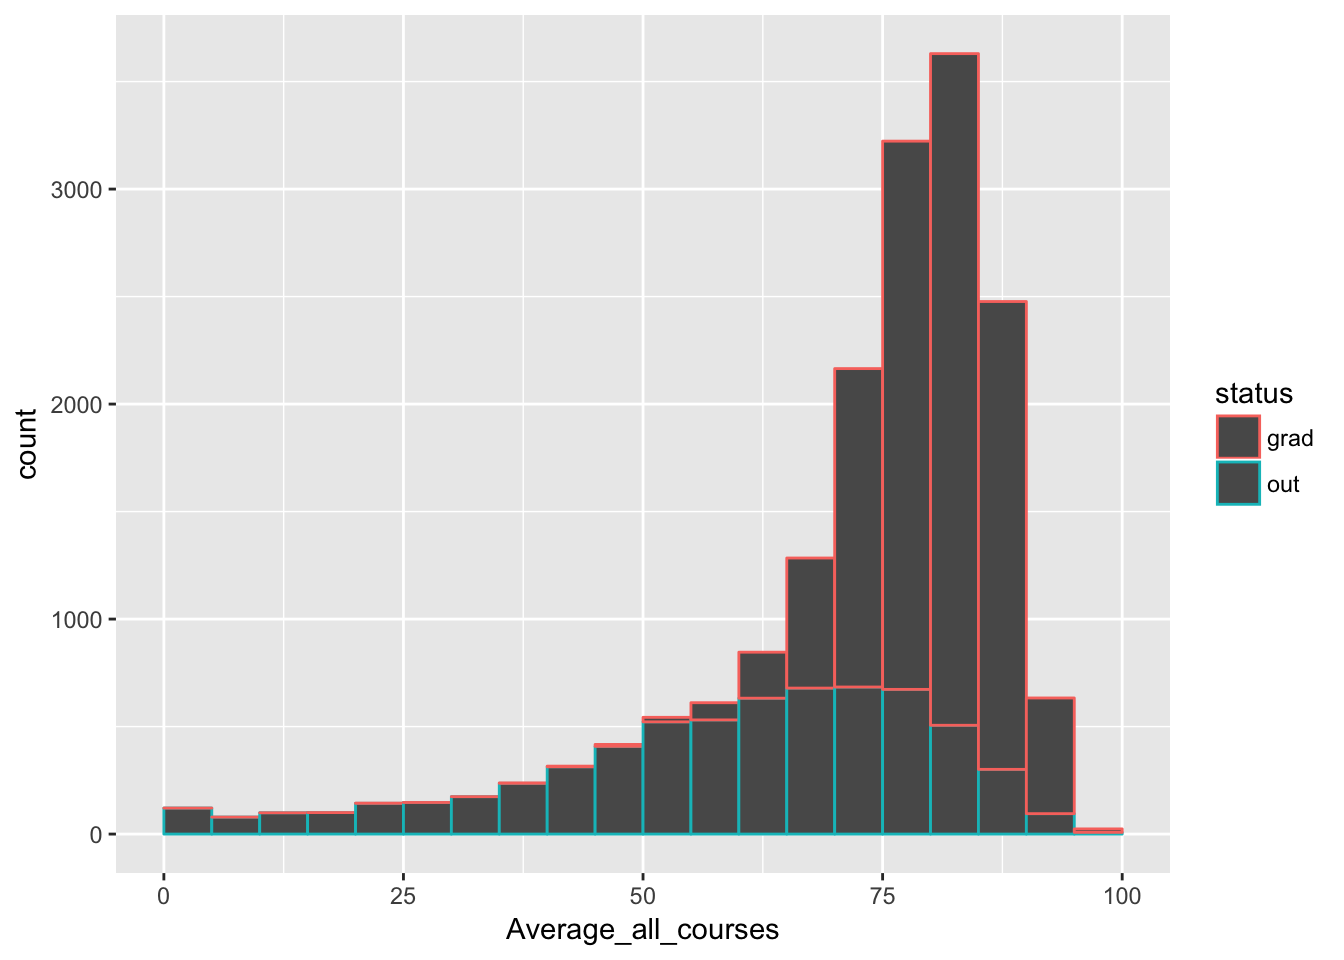
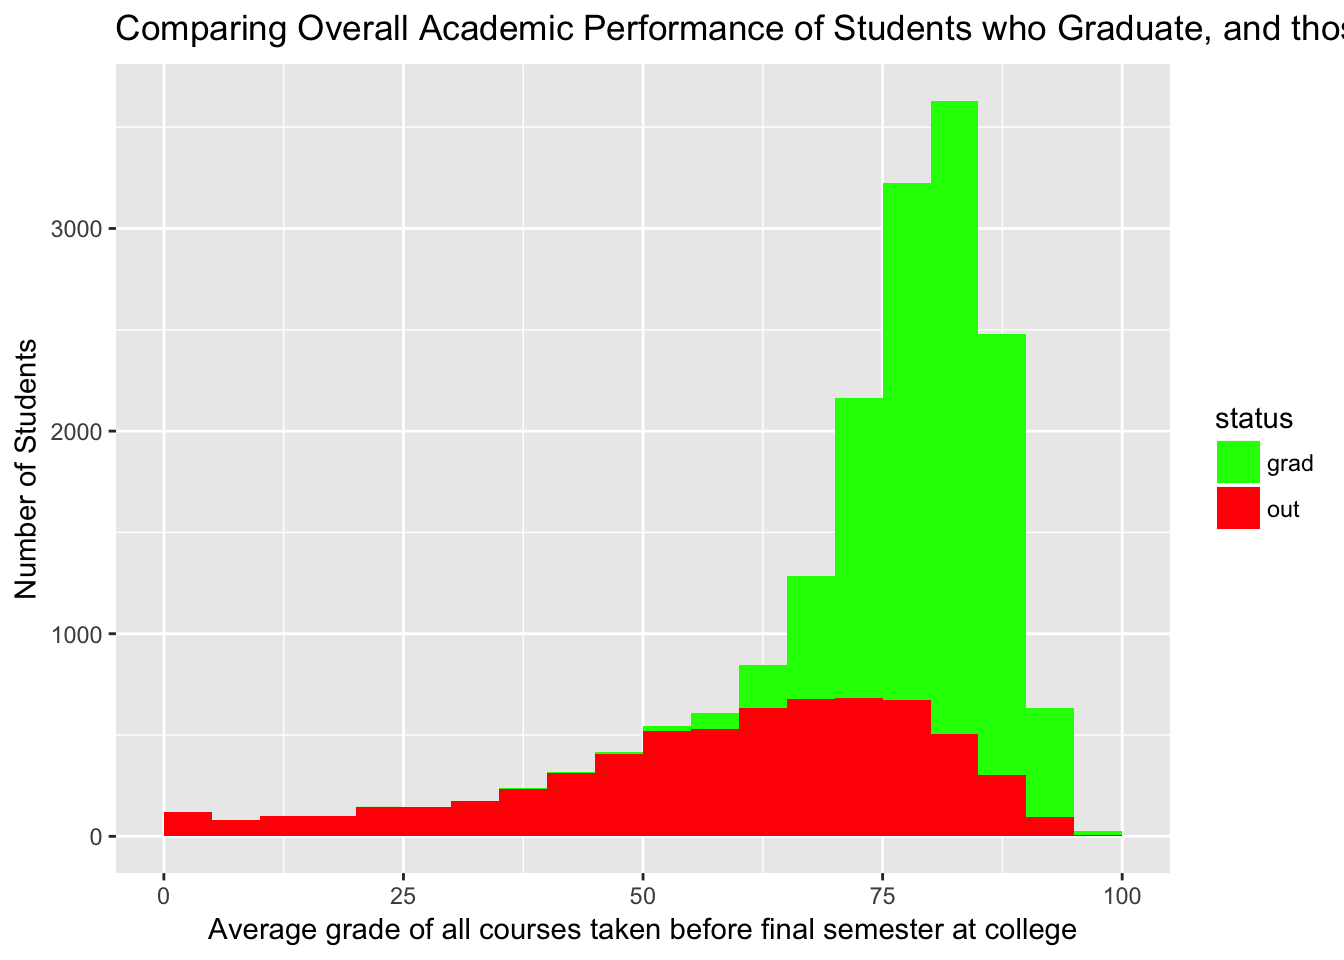
add to jons work on descriptive stats failed courses

diff --git a/docs/descriptive-statistics.html b/docs/descriptive-statistics.html
@@ -29,7 +29,7 @@
 <meta name="author" content="Nathaniel Lasry">
 
 
-<meta name="date" content="2017-06-01">
+<meta name="date" content="2017-06-02">
 
   <meta name="viewport" content="width=device-width, initial-scale=1">
   <meta name="apple-mobile-web-app-capable" content="yes">
@@ -72,34 +72,20 @@
 <li class="divider"></li>
 <li class="chapter" data-level="1" data-path="index.html"><a href="index.html"><i class="fa fa-check"></i><b>1</b> Preface</a></li>
 <li class="chapter" data-level="2" data-path="intro.html"><a href="intro.html"><i class="fa fa-check"></i><b>2</b> Introduction</a></li>
-<li class="chapter" data-level="3" data-path="literature.html"><a href="literature.html"><i class="fa fa-check"></i><b>3</b> Literature</a><ul>
-<li class="chapter" data-level="3.1" data-path="literature.html"><a href="literature.html#modeling-success-and-attrition-in-cegep"><i class="fa fa-check"></i><b>3.1</b> Modeling success and attrition in CEGEP</a></li>
-<li class="chapter" data-level="3.2" data-path="literature.html"><a href="literature.html#predictive-modelling-in-learning-analytics-and-educational-data-mining"><i class="fa fa-check"></i><b>3.2</b> Predictive Modelling in Learning Analytics and Educational Data Mining</a></li>
-</ul></li>
+<li class="chapter" data-level="3" data-path="literature.html"><a href="literature.html"><i class="fa fa-check"></i><b>3</b> Literature</a></li>
 <li class="chapter" data-level="4" data-path="descriptive-statistics.html"><a href="descriptive-statistics.html"><i class="fa fa-check"></i><b>4</b> Descriptive Statistics</a><ul>
 <li class="chapter" data-level="4.1" data-path="descriptive-statistics.html"><a href="descriptive-statistics.html#demographics-across-the-colleges-and-major-programs"><i class="fa fa-check"></i><b>4.1</b> Demographics across the colleges and major programs</a></li>
-<li class="chapter" data-level="4.2" data-path="descriptive-statistics.html"><a href="descriptive-statistics.html#fraction-of-students-who-change-colleges"><i class="fa fa-check"></i><b>4.2</b> Fraction of students who change colleges</a></li>
+<li class="chapter" data-level="4.2" data-path="descriptive-statistics.html"><a href="descriptive-statistics.html#academic-performance-in-semesters-leading-to-drop-out"><i class="fa fa-check"></i><b>4.2</b> Academic Performance in Semesters leading to drop-out</a><ul>
+<li class="chapter" data-level="4.2.1" data-path="descriptive-statistics.html"><a href="descriptive-statistics.html#grades"><i class="fa fa-check"></i><b>4.2.1</b> Grades</a></li>
+<li class="chapter" data-level="4.2.2" data-path="descriptive-statistics.html"><a href="descriptive-statistics.html#passed-vs.failed-courses"><i class="fa fa-check"></i><b>4.2.2</b> Passed vs. Failed Courses</a></li>
+</ul></li>
 </ul></li>
 <li class="chapter" data-level="5" data-path="methods-centered-on-determining-predictive-factors.html"><a href="methods-centered-on-determining-predictive-factors.html"><i class="fa fa-check"></i><b>5</b> Methods Centered on Determining Predictive Factors</a></li>
-<li class="chapter" data-level="6" data-path="methods-centered-on-predicting-at-risk-students.html"><a href="methods-centered-on-predicting-at-risk-students.html"><i class="fa fa-check"></i><b>6</b> Methods centered on predicting at-risk students</a><ul>
-<li class="chapter" data-level="6.1" data-path="methods-centered-on-predicting-at-risk-students.html"><a href="methods-centered-on-predicting-at-risk-students.html#decision-trees-and-random-forests"><i class="fa fa-check"></i><b>6.1</b> Decision Trees and Random Forests</a></li>
-<li class="chapter" data-level="6.2" data-path="methods-centered-on-predicting-at-risk-students.html"><a href="methods-centered-on-predicting-at-risk-students.html#neural-networks"><i class="fa fa-check"></i><b>6.2</b> Neural Networks</a></li>
-</ul></li>
+<li class="chapter" data-level="6" data-path="methods-centered-on-predicting-at-risk-students.html"><a href="methods-centered-on-predicting-at-risk-students.html"><i class="fa fa-check"></i><b>6</b> Methods centered on predicting at-risk students</a></li>
 <li class="chapter" data-level="7" data-path="comparisons.html"><a href="comparisons.html"><i class="fa fa-check"></i><b>7</b> Comparisons</a></li>
-<li class="chapter" data-level="8" data-path="continuing-education-at-dawson.html"><a href="continuing-education-at-dawson.html"><i class="fa fa-check"></i><b>8</b> Continuing Education at Dawson</a><ul>
-<li class="chapter" data-level="8.1" data-path="continuing-education-at-dawson.html"><a href="continuing-education-at-dawson.html#services"><i class="fa fa-check"></i><b>8.1</b> Services</a><ul>
-<li class="chapter" data-level="8.1.1" data-path="continuing-education-at-dawson.html"><a href="continuing-education-at-dawson.html#continuing-educations-growth-over-time"><i class="fa fa-check"></i><b>8.1.1</b> Continuing Education’s Growth over Time</a></li>
-<li class="chapter" data-level="8.1.2" data-path="continuing-education-at-dawson.html"><a href="continuing-education-at-dawson.html#department-level-seat-distributions"><i class="fa fa-check"></i><b>8.1.2</b> Department Level Seat Distributions</a></li>
-<li class="chapter" data-level="8.1.3" data-path="continuing-education-at-dawson.html"><a href="continuing-education-at-dawson.html#course-level-distributions"><i class="fa fa-check"></i><b>8.1.3</b> Course Level distributions</a></li>
-<li class="chapter" data-level="8.1.4" data-path="continuing-education-at-dawson.html"><a href="continuing-education-at-dawson.html#specialized-spaces"><i class="fa fa-check"></i><b>8.1.4</b> Specialized spaces</a></li>
-</ul></li>
-<li class="chapter" data-level="8.2" data-path="continuing-education-at-dawson.html"><a href="continuing-education-at-dawson.html#students"><i class="fa fa-check"></i><b>8.2</b> Students</a><ul>
-<li class="chapter" data-level="8.2.1" data-path="continuing-education-at-dawson.html"><a href="continuing-education-at-dawson.html#demographics"><i class="fa fa-check"></i><b>8.2.1</b> Demographics</a></li>
-<li class="chapter" data-level="8.2.2" data-path="continuing-education-at-dawson.html"><a href="continuing-education-at-dawson.html#success-rates"><i class="fa fa-check"></i><b>8.2.2</b> Success Rates</a></li>
-</ul></li>
-</ul></li>
+<li class="chapter" data-level="8" data-path="continuing-education-at-dawson.html"><a href="continuing-education-at-dawson.html"><i class="fa fa-check"></i><b>8</b> Continuing Education at Dawson</a></li>
 <li class="chapter" data-level="9" data-path="final-words.html"><a href="final-words.html"><i class="fa fa-check"></i><b>9</b> Final Words</a></li>
-<li class="chapter" data-level="" data-path="references.html"><a href="references.html"><i class="fa fa-check"></i>References</a></li>
+<li class="chapter" data-level="10" data-path="placeholder.html"><a href="placeholder.html"><i class="fa fa-check"></i><b>10</b> Placeholder</a></li>
 <li class="divider"></li>
 <li><a href="https://github.com/rstudio/bookdown" target="blank">Published with bookdown</a></li>
 
@@ -125,6 +111,11 @@
 <p>Here in we will describe - the data set - the methods by which we label students at risk - the distributions of at-risk students by - demographic indicators - registration record indicators</p>
 <div id="demographics-across-the-colleges-and-major-programs" class="section level2">
 <h2><span class="header-section-number">4.1</span> Demographics across the colleges and major programs</h2>
+</div>
+<div id="academic-performance-in-semesters-leading-to-drop-out" class="section level2">
+<h2><span class="header-section-number">4.2</span> Academic Performance in Semesters leading to drop-out</h2>
+<div id="grades" class="section level3">
+<h3><span class="header-section-number">4.2.1</span> Grades</h3>
 <p>Do students who drop out do so because of poor grades? What fraction of students are counted year after year as drop-outs and labeled as problems to be solved by the system while being exemplary students in terms of academic performance. Armed with this dataset, we can get the answer to that question. Let us begin by looking at the average grades of students who eventually dropped out compared to grades of students who haven’t. The following set of graphs will look at that comparison for 3 different semesters: the semester in which they dropped out (or graduated), the semester before that and the one before that. Let us see what the data says. <img src="studentsuccess_final_report_files/figure-html/Average-comp-1.png" width="672" /></p>
 <pre><code>## 
 ##  Welch Two Sample t-test
@@ -179,11 +170,76 @@
 ## sample estimates:
 ## mean in group grad  mean in group out 
 ##           80.42574           68.93729</code></pre>
+<p>One of the profile level Key Performance Indicators that colleges are supposed to specifically keep track of is third semester retention. In this light, we can somewhat flip the line of questionning above, and look to see if the distribution of grades in the third semester students looks different for those who will drop out, and those who will continue on.</p>
+<p><img src="studentsuccess_final_report_files/figure-html/third-semester-attrition-by-program-1.png" width="672" /></p>
 <p>In conclusion, the data strongly suggests that there are approximately 20% of students who consistently have averages above 75%, but still drop out. Therefore, that section of the drop out population is a section that will always go undetected if only traditional academic failure metrics are used to assess which students are likely to drop out. Students who move out to the US or the rest of Canada after their second semester and those who drop out by lack of interest are two potential student types that will always drop out no matter what remedial solutions are offered for them.</p>
 </div>
-<div id="fraction-of-students-who-change-colleges" class="section level2">
-<h2><span class="header-section-number">4.2</span> Fraction of students who change colleges</h2>
+<div id="passed-vs.failed-courses" class="section level3">
+<h3><span class="header-section-number">4.2.2</span> Passed vs. Failed Courses</h3>
+<p>The line of questionning above can be repeated, but instead of looking at the average grade of courses taken in a term, we can instead look to see if the number of courses passed, or the proportion failed, might be different for students who drop out versus those who do not.</p>
+<table style="width:86%;">
+<colgroup>
+<col width="26%" />
+<col width="8%" />
+<col width="6%" />
+<col width="5%" />
+<col width="5%" />
+<col width="5%" />
+<col width="5%" />
+<col width="5%" />
+<col width="5%" />
+<col width="5%" />
+<col width="5%" />
+</colgroup>
+<thead>
+<tr class="header">
+<th align="center"> </th>
+<th align="center">0</th>
+<th align="center">1</th>
+<th align="center">2</th>
+<th align="center">3</th>
+<th align="center">4</th>
+<th align="center">5</th>
+<th align="center">6</th>
+<th align="center">7</th>
+<th align="center">8</th>
+<th align="center">10</th>
+</tr>
+</thead>
+<tbody>
+<tr class="odd">
+<td align="center"><strong>Not-drop-out</strong></td>
+<td align="center">11339</td>
+<td align="center">1320</td>
+<td align="center">447</td>
+<td align="center">216</td>
+<td align="center">116</td>
+<td align="center">66</td>
+<td align="center">34</td>
+<td align="center">8</td>
+<td align="center">2</td>
+<td align="center">0</td>
+</tr>
+<tr class="even">
+<td align="center"><strong>out</strong></td>
+<td align="center">263</td>
+<td align="center">113</td>
+<td align="center">93</td>
+<td align="center">80</td>
+<td align="center">134</td>
+<td align="center">109</td>
+<td align="center">59</td>
+<td align="center">36</td>
+<td align="center">15</td>
+<td align="center">1</td>
+</tr>
+</tbody>
+</table>
+<p>What we remark in the table above is that the number of courses failed does not seem to differentiate students who will drop out aftre their third term. But perhaps, we should consider the fraction of courses that a student took in their third term, and failed?</p>
+<p><img src="studentsuccess_final_report_files/figure-html/prop-failed-courses-1.png" width="672" /></p>
+<p>No major distinction here either.</p>
 
+</div>
 </div>
 </div>
             </section>
